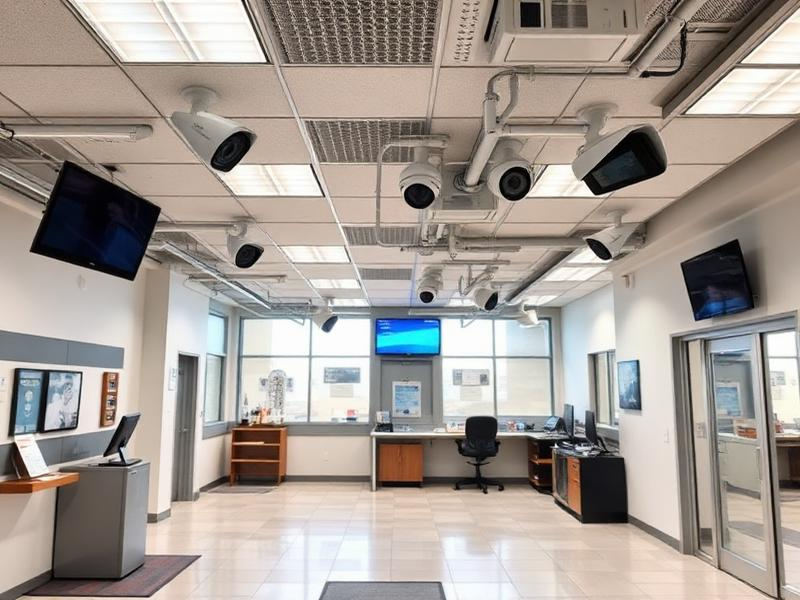
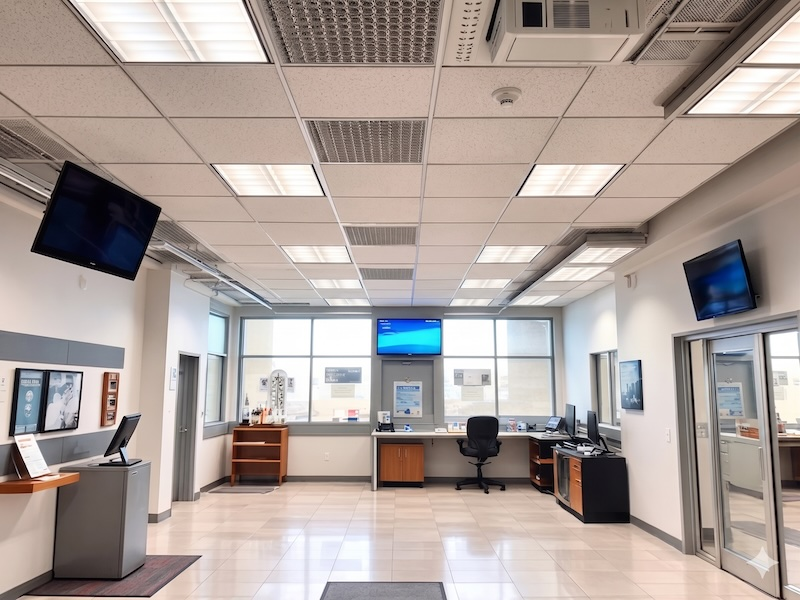
Updated industry images. Copy adjustments.

diff --git a/src/lib/content.ts b/src/lib/content.ts
@@ -6,10 +6,10 @@ export const videoFeatures = [
 ];
 
 export const services = [
-  { icon: "ClipboardCheck", title: "Security system health check.", text: "A one-time or annual on-site visit to assess any existing camera system - regardless of brand or installer. We check recording, storage, remote access, and firmware, then hand you a written summary." },
-  { icon: "ScanEye",        title: "Coverage audit.",              text: "A property walkthrough focused on what your cameras actually see - and what they miss. We document blind spots, obstructions, lighting, and positioning, with a short report of recommendations." },
-  { icon: "ShieldCheck",    title: "Ongoing maintenance plan.",    text: "A recurring monthly or annual plan covering remote health checks, firmware updates, storage monitoring, and priority response. Set it and forget it peace of mind on any system we can administer." },
-  { icon: "KeyRound",       title: "System takeover.",             text: "For properties with an existing system but no support relationship. We start with a health check to document current condition, then transition into an ongoing maintenance plan." },
+  { icon: "ClipboardCheck", title: "Security system health check.", text: "A one-time or annual on-site visit to assess your existing camera system - regardless of brand or installer. We verify recording, storage, remote access, and firmware, and leave you with a written summary." },
+  { icon: "ScanEye",        title: "Coverage audit.",              text: "A walkthrough of your property to identify what your cameras see - and what they miss. You'll get a written report with recommendations." },
+  { icon: "ShieldCheck",    title: "Ongoing maintenance plan.",    text: "Remote health checks, firmware updates, and storage monitoring on a monthly or annual basis - plus priority response when something goes wrong. Works on any system we can administer." },
+  { icon: "KeyRound",       title: "System takeover.",             text: "Already have a system but no one to call? We'll assess what you've got and take it from there." },
 ];
 
 export const industries = [

diff --git a/src/components/ContactForm.tsx b/src/components/ContactForm.tsx
@@ -22,9 +22,9 @@ const schema = z.object({
 type FormData = z.infer<typeof schema>;
 
 const contactInfo = [
-  { Icon: Phone, title: "Call Us", details: "[phone redacted]", description: "Speak directly with our security experts" },
-  { Icon: Mail, title: "Email Us", details: "[email redacted]", description: "Get a detailed response within 24 hours" },
-  { Icon: MapPin, title: "Service Area", details: "Statewide Minnesota", description: "Local service across the state" },
+  { Icon: Phone, title: "Call Us", details: "[phone redacted]", description: "" },
+  { Icon: Mail, title: "Email Us", details: "[email redacted]", description: "" },
+  { Icon: MapPin, title: "Service Area", details: "Meeker, Wright, McLeod Counties ", description: "" },
 ];
 
 export default function ContactForm() {

diff --git a/src/App.tsx b/src/App.tsx
@@ -21,7 +21,7 @@ export default function App() {
         <Section id="video-security">
           <SectionHeader
             title="Video security that actually works."
-            lead="Clear footage. Reliable recording. Systems designed for your property's real conditions — not a showroom demo."
+            lead="Clear footage. Reliable recording. Systems designed for your property's real conditions - not a showroom demo."
           />
           <FeatureGrid items={videoFeatures} />
         </Section>
@@ -45,7 +45,7 @@ export default function App() {
         <Section id="contact" tone="section">
           <SectionHeader
             title="Let's take a look at your property."
-            lead="If you're dealing with unreliable WiFi, outdated cameras, or no clear system plan — we'll evaluate it and give you a straightforward recommendation."
+            lead="If you're dealing with unreliable footage, outdated cameras, or no clear system plan - we'll evaluate it and give you a straightforward recommendation."
           />
           <ContactForm />
         </Section>

diff --git a/src/components/Footer.tsx b/src/components/Footer.tsx
@@ -12,11 +12,11 @@ export default function Footer() {
             </div>
             <div>
               <p className="text-xl font-bold text-white m-0">North Fork Security</p>
-              <p className="text-sm text-white/70 m-0">Security &amp; Monitoring Solutions</p>
+              <p className="text-sm text-white/70 m-0">Video Security &amp; Monitoring Solutions</p>
             </div>
           </div>
           <p className="text-white/80 mb-6 leading-relaxed">
-            Providing Minnesota farms, businesses, churches, and professional offices with thoughtfully designed video security and monitoring systems — backed by reliable local service.
+            Providing Minnesota farms, businesses, churches, and professional offices with thoughtfully designed video security and monitoring systems - backed by reliable local service.
           </p>
           <div className="flex items-center gap-4">
             <a

diff --git a/src/components/Hero.tsx b/src/components/Hero.tsx
@@ -26,7 +26,7 @@ export default function Hero({ onContact }: HeroProps) {
           </div>
 
           <h1 className="text-5xl md:text-7xl font-bold leading-[1.05] tracking-tight text-white mb-6">
-            Reliable WiFi. Smarter Security.{" "}
+            Reliable Video Security.{" "}
             <span className="text-accent">Systems That Just Work.</span>
           </h1>
 